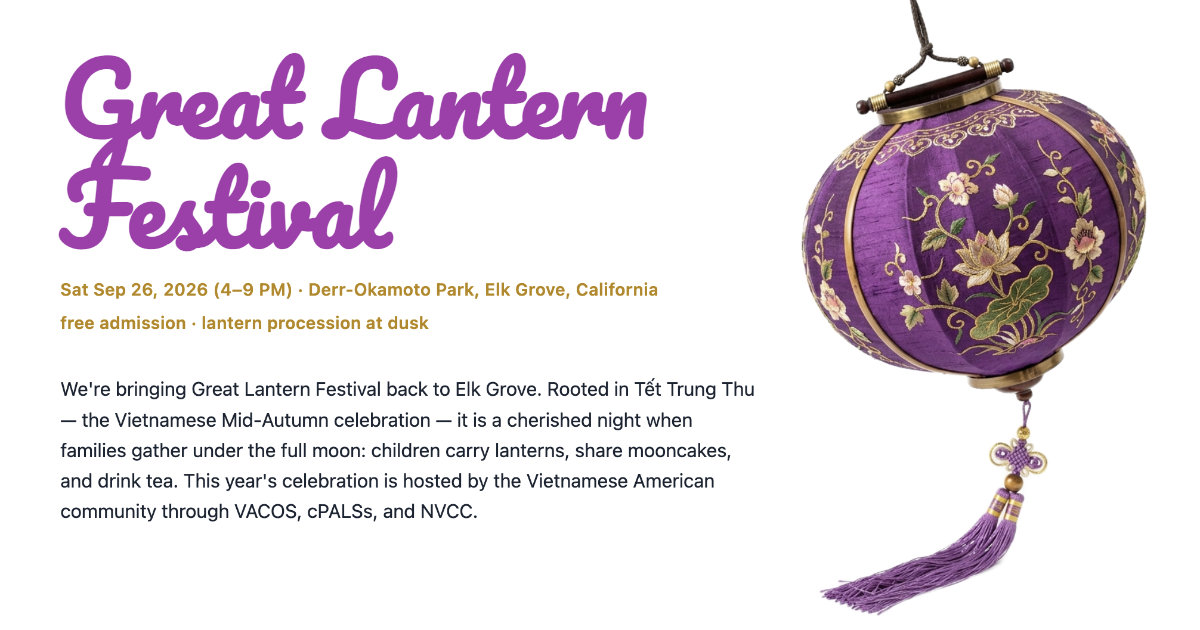
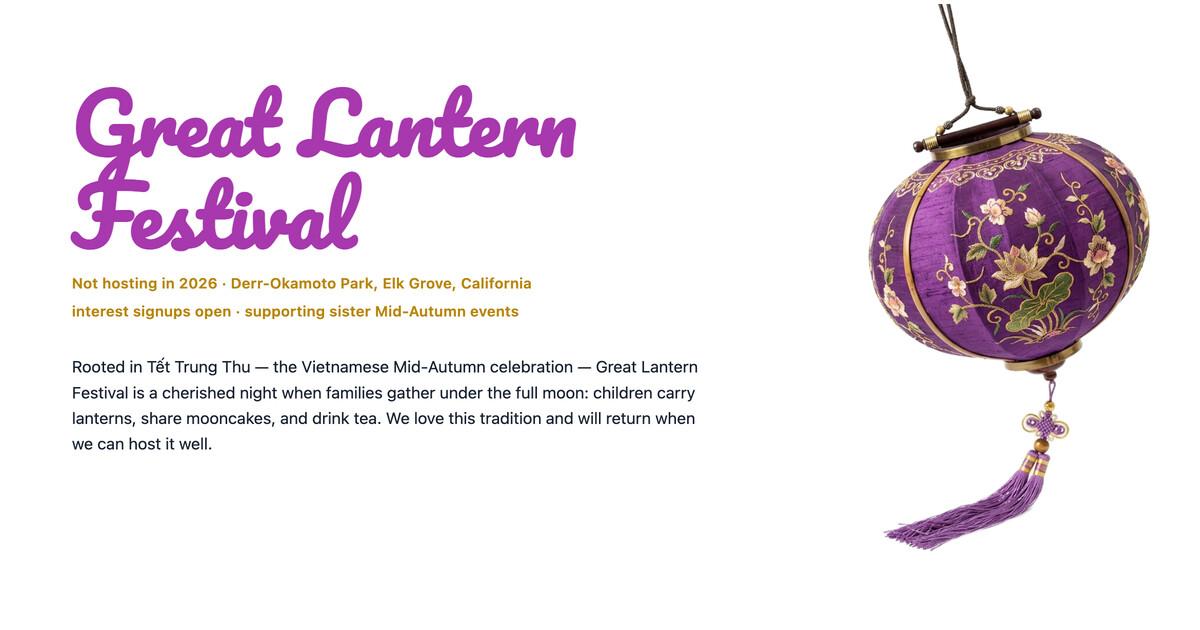
Refresh OG preview to show GLF is not hosting in 2026.
Replace the stale share image that still advertised Sep 26, and cache-bust og:image URLs so scrapers pick up the pause copy.

diff --git a/index.html b/index.html
@@ -16,8 +16,8 @@
   <meta name="twitter:card" content="summary_large_image" />
   <meta name="twitter:title" content="Great Lantern Festival — Not hosting in 2026" />
   <meta name="twitter:description" content="Great Lantern Festival will not be hosted in 2026. Share interest via [email redacted] for future team roles and sister Mid-Autumn events such as APIDA Night Lights." />
-  <meta property="og:image" content="https://greatlantern.com/assets/og-default.jpg" />
-  <meta name="twitter:image" content="https://greatlantern.com/assets/og-default.jpg" />
+  <meta property="og:image" content="https://greatlantern.com/assets/og-default.jpg?v=1784751735" />
+  <meta name="twitter:image" content="https://greatlantern.com/assets/og-default.jpg?v=1784751735" />
   <script type="application/ld+json">
 {
   "@context": "https://schema.org",
@@ -54,7 +54,7 @@
         ]
       },
       "image": [
-        "https://greatlantern.com/assets/og-default.jpg"
+        "https://greatlantern.com/assets/og-default.jpg?v=1784751735"
       ]
     },
     {

diff --git a/about.html b/about.html
@@ -10,8 +10,8 @@
   <meta name="twitter:card" content="summary_large_image" />
   <meta name="twitter:title" content="About — Great Lantern Festival" />
   <meta name="twitter:description" content="Redirecting to https://greatlantern.com/about/" />
-  <meta property="og:image" content="https://greatlantern.com/assets/og-default.jpg" />
-  <meta name="twitter:image" content="https://greatlantern.com/assets/og-default.jpg" />
+  <meta property="og:image" content="https://greatlantern.com/assets/og-default.jpg?v=1784751735" />
+  <meta name="twitter:image" content="https://greatlantern.com/assets/og-default.jpg?v=1784751735" />
 
   <meta charset="UTF-8" />
   <!-- Google tag (gtag.js) -->

diff --git a/about/index.html b/about/index.html
@@ -16,8 +16,8 @@
   <meta name="twitter:card" content="summary_large_image" />
   <meta name="twitter:title" content="About Great Lantern Festival" />
   <meta name="twitter:description" content="About Great Lantern Festival — Tết Trung Thu, festival origins, and the autumn 2026 pause at Derr-Okamoto Park." />
-  <meta property="og:image" content="https://greatlantern.com/assets/og-default.jpg" />
-  <meta name="twitter:image" content="https://greatlantern.com/assets/og-default.jpg" />
+  <meta property="og:image" content="https://greatlantern.com/assets/og-default.jpg?v=1784751735" />
+  <meta name="twitter:image" content="https://greatlantern.com/assets/og-default.jpg?v=1784751735" />
 
   <title>About Great Lantern Festival</title>
   <script src="../clean-urls.js"></script>

diff --git a/fund-the-festival/index.html b/fund-the-festival/index.html
@@ -16,8 +16,8 @@
   <meta name="twitter:card" content="summary_large_image" />
   <meta name="twitter:title" content="Fund The Festival — Great Lantern Festival" />
   <meta name="twitter:description" content="Great Lantern Festival is not hosting in 2026. Historical sponsor registry and program blocks for planning reference." />
-  <meta property="og:image" content="https://greatlantern.com/assets/og-default.jpg" />
-  <meta name="twitter:image" content="https://greatlantern.com/assets/og-default.jpg" />
+  <meta property="og:image" content="https://greatlantern.com/assets/og-default.jpg?v=1784751735" />
+  <meta name="twitter:image" content="https://greatlantern.com/assets/og-default.jpg?v=1784751735" />
 
   <title>Fund The Festival — Great Lantern Festival</title>
   <script src="../clean-urls.js"></script>

diff --git a/fund-the-popups/index.html b/fund-the-popups/index.html
@@ -16,8 +16,8 @@
   <meta name="twitter:card" content="summary_large_image" />
   <meta name="twitter:title" content="Fund The Popups — Great Lantern Festival" />
   <meta name="twitter:description" content="Fund portable lantern photo popups across Greater Sacramento's autumn season — backdrops, craft stations, and family portraits at community events." />
-  <meta property="og:image" content="https://greatlantern.com/assets/og-default.jpg" />
-  <meta name="twitter:image" content="https://greatlantern.com/assets/og-default.jpg" />
+  <meta property="og:image" content="https://greatlantern.com/assets/og-default.jpg?v=1784751735" />
+  <meta name="twitter:image" content="https://greatlantern.com/assets/og-default.jpg?v=1784751735" />
 
   <title>Fund The Popups — Great Lantern Festival</title>
   <script src="../clean-urls.js"></script>

diff --git a/host.html b/host.html
@@ -10,8 +10,8 @@
   <meta name="twitter:card" content="summary_large_image" />
   <meta name="twitter:title" content="Custom Zones — Great Lantern Festival" />
   <meta name="twitter:description" content="Redirecting to https://greatlantern.com/custom-zones/" />
-  <meta property="og:image" content="https://greatlantern.com/assets/og-default.jpg" />
-  <meta name="twitter:image" content="https://greatlantern.com/assets/og-default.jpg" />
+  <meta property="og:image" content="https://greatlantern.com/assets/og-default.jpg?v=1784751735" />
+  <meta name="twitter:image" content="https://greatlantern.com/assets/og-default.jpg?v=1784751735" />
 
   <meta charset="UTF-8" />
   <!-- Google tag (gtag.js) -->

diff --git a/resources/index.html b/resources/index.html
@@ -16,8 +16,8 @@
   <meta name="twitter:card" content="summary_large_image" />
   <meta name="twitter:title" content="Resources — Great Lantern Festival" />
   <meta name="twitter:description" content="Great Lantern Festival resources — Mid-Autumn Festival Season events and planning notes." />
-  <meta property="og:image" content="https://greatlantern.com/assets/og-default.jpg" />
-  <meta name="twitter:image" content="https://greatlantern.com/assets/og-default.jpg" />
+  <meta property="og:image" content="https://greatlantern.com/assets/og-default.jpg?v=1784751735" />
+  <meta name="twitter:image" content="https://greatlantern.com/assets/og-default.jpg?v=1784751735" />
 
   <title>Resources — Great Lantern Festival</title>
   <script src="../clean-urls.js"></script>

diff --git a/resources/season/index.html b/resources/season/index.html
@@ -16,8 +16,8 @@
   <meta name="twitter:card" content="summary_large_image" />
   <meta name="twitter:title" content="Mid-Autumn Festival Season — Great Lantern Festival" />
   <meta name="twitter:description" content="Mid-Autumn Festival Season in Greater Sacramento — early September through early October community celebrations." />
-  <meta property="og:image" content="https://greatlantern.com/assets/og-default.jpg" />
-  <meta name="twitter:image" content="https://greatlantern.com/assets/og-default.jpg" />
+  <meta property="og:image" content="https://greatlantern.com/assets/og-default.jpg?v=1784751735" />
+  <meta name="twitter:image" content="https://greatlantern.com/assets/og-default.jpg?v=1784751735" />
 
   <title>Mid-Autumn Festival Season — Great Lantern Festival</title>
   <script src="../../clean-urls.js"></script>

diff --git a/team.html b/team.html
@@ -10,8 +10,8 @@
   <meta name="twitter:card" content="summary_large_image" />
   <meta name="twitter:title" content="Team — Great Lantern Festival" />
   <meta name="twitter:description" content="Redirecting to https://greatlantern.com/team/" />
-  <meta property="og:image" content="https://greatlantern.com/assets/og-default.jpg" />
-  <meta name="twitter:image" content="https://greatlantern.com/assets/og-default.jpg" />
+  <meta property="og:image" content="https://greatlantern.com/assets/og-default.jpg?v=1784751735" />
+  <meta name="twitter:image" content="https://greatlantern.com/assets/og-default.jpg?v=1784751735" />
 
   <meta charset="UTF-8" />
   <!-- Google tag (gtag.js) -->

diff --git a/team/index.html b/team/index.html
@@ -16,8 +16,8 @@
   <meta name="twitter:card" content="summary_large_image" />
   <meta name="twitter:title" content="Team — Great Lantern Festival" />
   <meta name="twitter:description" content="Share interest in joining the Great Lantern Festival team for other events we're planning, or helping with sister Mid-Autumn events such as Sac State APIDA Night Lights." />
-  <meta property="og:image" content="https://greatlantern.com/assets/og-default.jpg" />
-  <meta name="twitter:image" content="https://greatlantern.com/assets/og-default.jpg" />
+  <meta property="og:image" content="https://greatlantern.com/assets/og-default.jpg?v=1784751735" />
+  <meta name="twitter:image" content="https://greatlantern.com/assets/og-default.jpg?v=1784751735" />
 
   <title>Team — Great Lantern Festival</title>
   <script src="../clean-urls.js"></script>